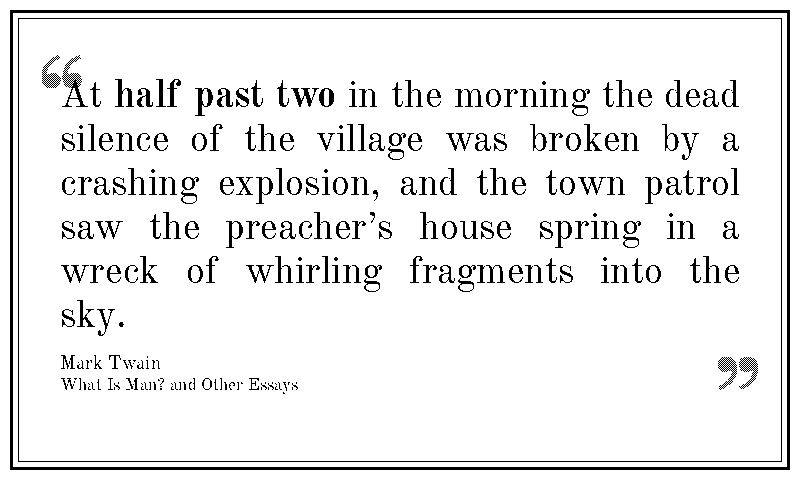
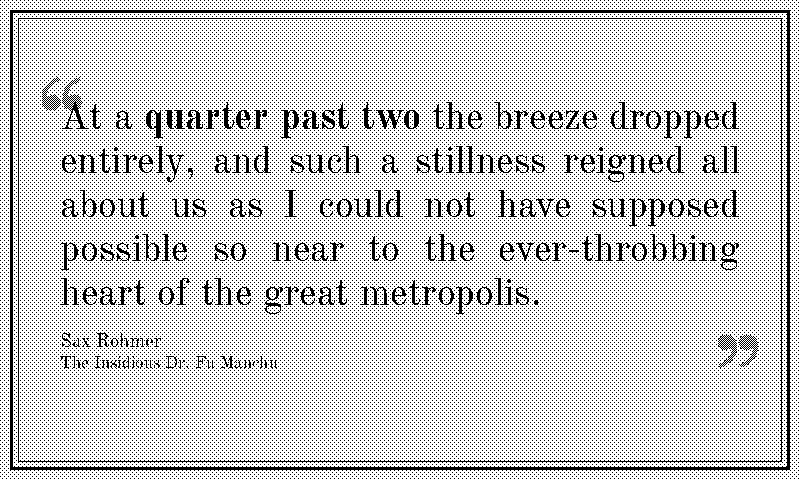
Halftone newsprint ground 12.5% black for a faint newsprint grey
The newsprint theme's pure-white ground read as fresh laser-print paper
rather than newspaper pulp. Paint a 4×4 Bayer halftone as Layer 0 of
draw_newsprint_border, converting 2 of every 16 page_bg pixels to black
so the ground averages to ~87.5% white at panel viewing distance —
reads as cheap newsprint without leaving the Spectra-6 palette. Same
trick alchemy's parchment halftone uses, with the polarity flipped.

Drop newsprint from test_blueprint_grid_is_theme_gated and
test_comic_stripes_are_theme_gated's theme lists for the same reason
alchemy was implicitly excluded: its background now intentionally
paints sparse black flecks across the white ground, so the
"no other theme paints at coord X" invariant doesn't apply cleanly.
Regenerated the newsprint golden and the README preview to match.

https://claude.ai/code/session_01GUDzVT7kFuEAMTLgEcieqM

Changed region(s): [[0.0, 0.0, 1.0, 1.0], [0.0, 0.0, 0.0312, 0.0312]]

diff --git a/render_quote.py b/render_quote.py
@@ -85,7 +85,10 @@ THEMES = {
         "source": SPECTRA6["blue"],
     },
     # Pure typography: no colour accent at all. Matched phrase differentiates by
-    # bold weight against the same ink colour, like an old broadsheet. Quiet.
+    # bold weight against the same ink colour, like an old broadsheet. The
+    # white ground is softened by a 12.5% black Bayer halftone painted in
+    # ``draw_newsprint_border``'s Layer 0 so the page reads as cheap newsprint
+    # pulp rather than the panel's flat pure white. Quiet.
     "newsprint": {
         "page_bg": SPECTRA6["white"],
         "text": SPECTRA6["black"],
@@ -2659,18 +2662,54 @@ def draw_saloon_border(image: Image.Image, colors: dict) -> None:
 def draw_newsprint_border(image: Image.Image, colors: dict) -> None:
     """Paint a broadsheet-style Scotch-rule border around the canvas margin.
 
-    A classic thick-thin parallel rule: a heavier outer rectangle and a
-    hairline inner rectangle separated by a narrow band of white space.
-    This is the signature border of 19th-century newspaper typography —
-    the "Scotch rule" — and stays purely typographical: no corner
-    accents, no coloured ornament, nothing but weighted ink. That
-    restraint matches the newsprint theme's no-colour-accent palette
-    (every theme field is black or white), so the margin reads as
-    broadsheet rather than modernist poster.
+    Two motifs from 19th-century newspaper typography:
+
+    * **Layer 0 — sparse newsprint halftone.** A 4×4 Bayer dither
+      converts 2 of every 16 ``page_bg`` white pixels to black, leaving
+      the other 14 untouched. At panel viewing distance the eye
+      averages the 12.5%-black pattern into a faint grey wash —
+      reads as cheap newsprint pulp rather than the panel's flat pure
+      white. Same trick the ``alchemy`` parchment halftone uses, but
+      with the polarity flipped (mostly-white with black flecks rather
+      than mostly-yellow with white flecks). Painted at the very start
+      of the painter so the Scotch-rule frame below overpaints the
+      dithered ground cleanly. Lives natively on the Spectra-6 palette
+      (every output pixel still one of the six pure inks), so the
+      palette-snap step is a no-op and glyph edges stay crisp.
+    * **Scotch rule frame.** A classic thick-thin parallel rule: a
+      heavier outer rectangle and a hairline inner rectangle separated
+      by a narrow band of white space. The signature border of
+      19th-century newspaper typography — no corner accents, no
+      coloured ornament, nothing but weighted ink. That restraint
+      matches the theme's no-colour-accent palette (every theme field
+      is black or white), so the margin reads as broadsheet rather
+      than modernist poster.
     """
-    draw = ImageDraw.Draw(image)
     width, height = image.size
+    page_bg = colors.get("page_bg")
     ink = colors["text"]
+
+    # Layer 0: 12.5% black-on-white Bayer halftone. Only pixels matching
+    # the exact ``page_bg`` colour are affected — defence in depth if a
+    # future caller paints accents before this painter runs. Skipped
+    # when ``page_bg`` is absent from the palette so direct-call test
+    # paths that only provide ``text`` stay valid.
+    if page_bg is not None:
+        _BAYER_4 = (
+            (0, 8, 2, 10),
+            (12, 4, 14, 6),
+            (3, 11, 1, 9),
+            (15, 7, 13, 5),
+        )
+        halftone_threshold = 2  # cells with value < 2 (i.e. 0, 1) become black → 2/16
+        pixels = image.load()
+        for y in range(height):
+            row = _BAYER_4[y & 3]
+            for x in range(width):
+                if pixels[x, y] == page_bg and row[x & 3] < halftone_threshold:
+                    pixels[x, y] = ink
+
+    draw = ImageDraw.Draw(image)
 
     # Outer heavy rule.
     outer_inset = 10

diff --git a/tests/test_render_quote.py b/tests/test_render_quote.py
@@ -1225,9 +1225,11 @@ class TestBlueprintBorder:
 
     def test_blueprint_grid_is_theme_gated(self):
         """No other theme paints a blue pixel at the blueprint grid-intersection
-        coordinate (36, 56) — it should show that theme's page_bg."""
+        coordinate (36, 56) — it should show that theme's page_bg. Newsprint
+        is excluded because its Layer 0 halftone intentionally paints sparse
+        black flecks across the white ground, same as alchemy."""
         row = self._row()
-        for theme in ("default", "dark", "scholar", "newsprint", "nightvision",
+        for theme in ("default", "dark", "scholar", "nightvision",
                       "illuminated", "bauhaus", "risograph", "comic"):
             img = rq.render("03:00", row, 800, 480, mode="production", theme=theme)
             expected_bg = rq.THEMES[theme]["page_bg"]
@@ -1301,9 +1303,11 @@ class TestComicCornerStripes:
         sample point (650, 470) — well inside the bottom-right triangle
         and outside every other theme's corner decorations / outer rules.
         A regression that registered the painter against the wrong theme
-        key would surface here."""
+        key would surface here. Newsprint is excluded because its Layer 0
+        halftone intentionally paints sparse black flecks across the
+        white ground, same as alchemy."""
         row = self._row()
-        for theme in ("default", "dark", "scholar", "newsprint", "nightvision",
+        for theme in ("default", "dark", "scholar", "nightvision",
                       "blueprint", "illuminated", "bauhaus", "risograph"):
             img = rq.render("03:00", row, 800, 480, mode="production", theme=theme)
             expected_bg = rq.THEMES[theme]["page_bg"]

diff --git a/README.md b/README.md
@@ -260,7 +260,7 @@ Eighteen themes ship built-in, all constrained to the Spectra 6 panel palette (w
 | `default`     | <img src="assets/previews/default.png" width="240" alt="default theme preview">         | white       | black | red    | Playfair Display     | Classic broadsheet            |
 | `dark`        | <img src="assets/previews/dark.png" width="240" alt="dark theme preview">               | black       | white | yellow | Playfair Display     | Night mode                    |
 | `scholar`     | <img src="assets/previews/scholar.png" width="240" alt="scholar theme preview">         | white       | blue  | red    | Bitter (slab)        | Academic textbook             |
-| `newsprint`   | <img src="assets/previews/newsprint.png" width="240" alt="newsprint theme preview">     | white       | black | (none) | Old Standard TT      | Bold-weight, no chroma        |
+| `newsprint`   | <img src="assets/previews/newsprint.png" width="240" alt="newsprint theme preview">     | white/black | black | (none) | Old Standard TT      | Bold-weight, no chroma        |
 | `nightvision` | <img src="assets/previews/nightvision.png" width="240" alt="nightvision theme preview"> | black       | green | yellow | Space Mono           | Retro terminal                |
 | `blueprint`   | <img src="assets/previews/blueprint.png" width="240" alt="blueprint theme preview">     | white       | blue  | red    | Archivo (sans)       | Drafting blueprint            |
 | `illuminated` | <img src="assets/previews/illuminated.png" width="240" alt="illuminated theme preview"> | white       | red   | blue   | EB Garamond + UnifrakturMaguntia | Rubricated manuscript |
